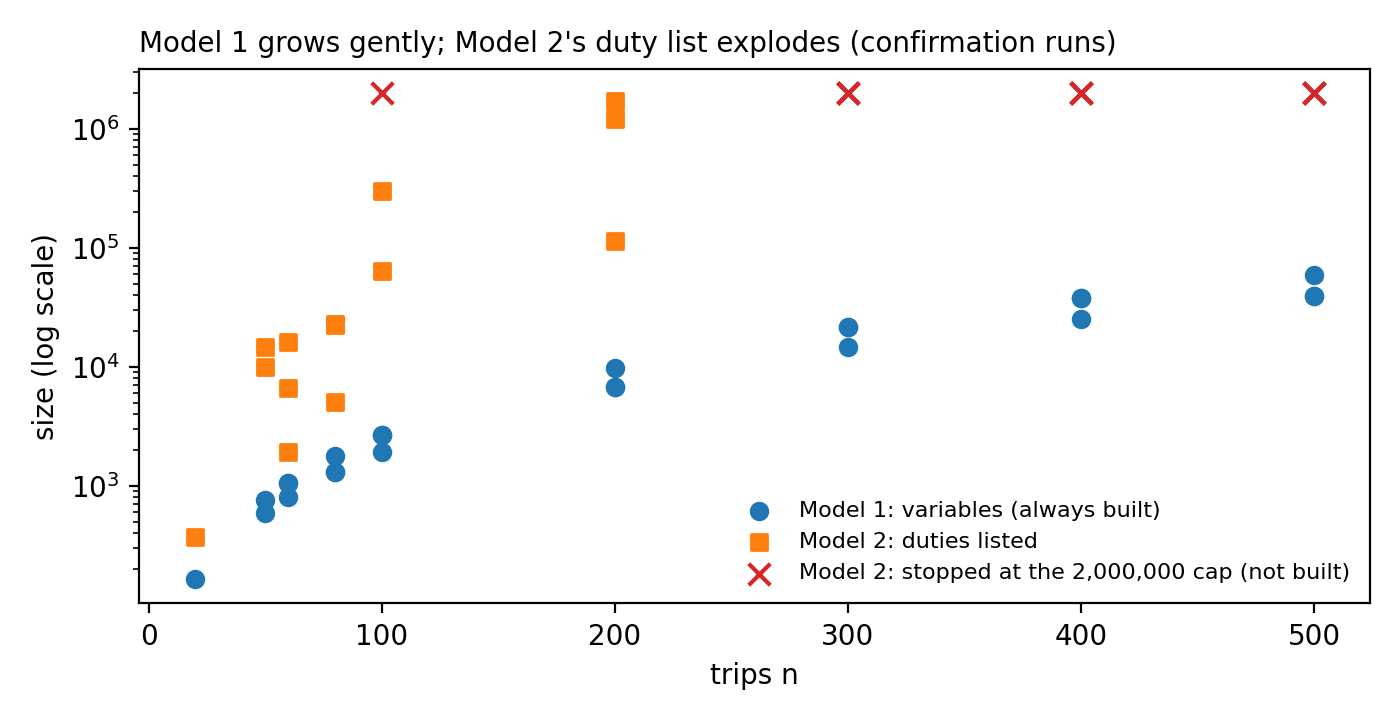
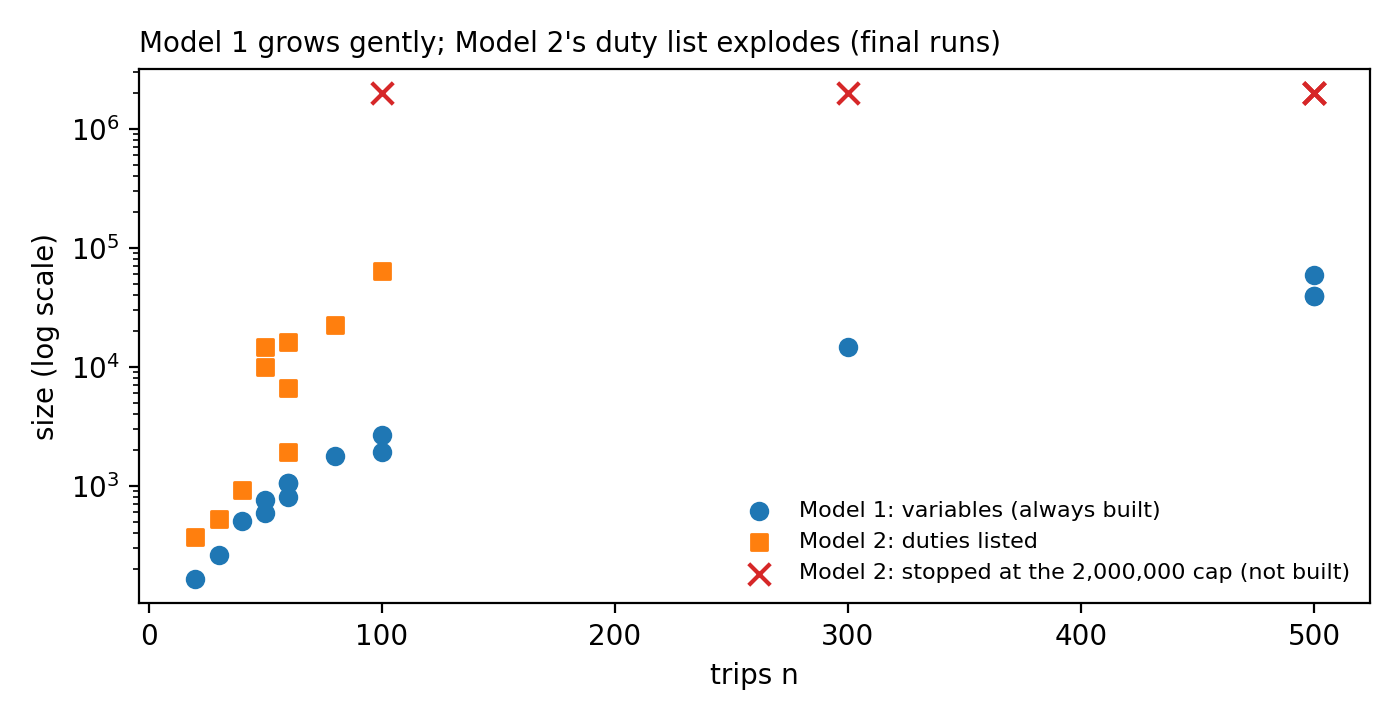
Slide 5: model sizes from the final runs (5 of 15 not built)

diff --git a/slides/make_figures_A.py b/slides/make_figures_A.py
@@ -5,7 +5,7 @@
 slide 3: the P0 timetable, and its optimal 2-driver schedule ($945)
 slide 4: the P0 trip network (14 arcs); the arcs the optimal schedule uses are drawn bold
 slide 5: (a) Model 1's LP bound with and without the duty-limit rules (4)-(7), P0-P5
-         (b) model size: Model 1 variables vs Model 2 duties, from results/confirm.csv (preliminary)
+         (b) model size: Model 1 variables vs Model 2 duties, from results/runs.csv (final runs, 15 instances)
 """
 from __future__ import annotations
 
@@ -118,7 +118,7 @@ def slide5_lp():
 
 
 def slide5_size():
-    path = os.path.join(ROOT, "results", "confirm.csv")
+    path = os.path.join(ROOT, "results", "runs.csv")
     if not os.path.exists(path):
         return None
     d = pd.read_csv(path)
@@ -136,7 +136,7 @@ def slide5_size():
     ax.set_yscale("log")
     ax.set_xlabel("trips n")
     ax.set_ylabel("size (log scale)")
-    ax.set_title("Model 1 grows gently; Model 2's duty list explodes (confirmation runs)", loc="left", fontsize=10)
+    ax.set_title("Model 1 grows gently; Model 2's duty list explodes (final runs)", loc="left", fontsize=10)
     ax.legend(fontsize=8, frameon=False)
     fig.tight_layout()
     fig.savefig(os.path.join(OUT, "A_slide5_size.png"), dpi=200)

diff --git a/slides/slides_A.md b/slides/slides_A.md
@@ -88,7 +88,7 @@ started, and D adds up the driving.
 
 **On the slide**
 - Left: `A_slide5_size.png` — Model 1 stays below 60,000 variables up to 500 trips; Model 2's duty list
-  passes 2 million and cannot be built on 10 of the 24 confirmation instances
+  passes 2 million and cannot be built on 5 of the 15 benchmark instances (final runs)
 - Right: `A_slide5_lp.png` — Model 1's LP bound with the duty rules vs with rules (4)–(7) deleted (P0–P5):
   almost the same, identical on P3 and P4
 - One line: the rules that make the problem hard only become active once the solver branches
